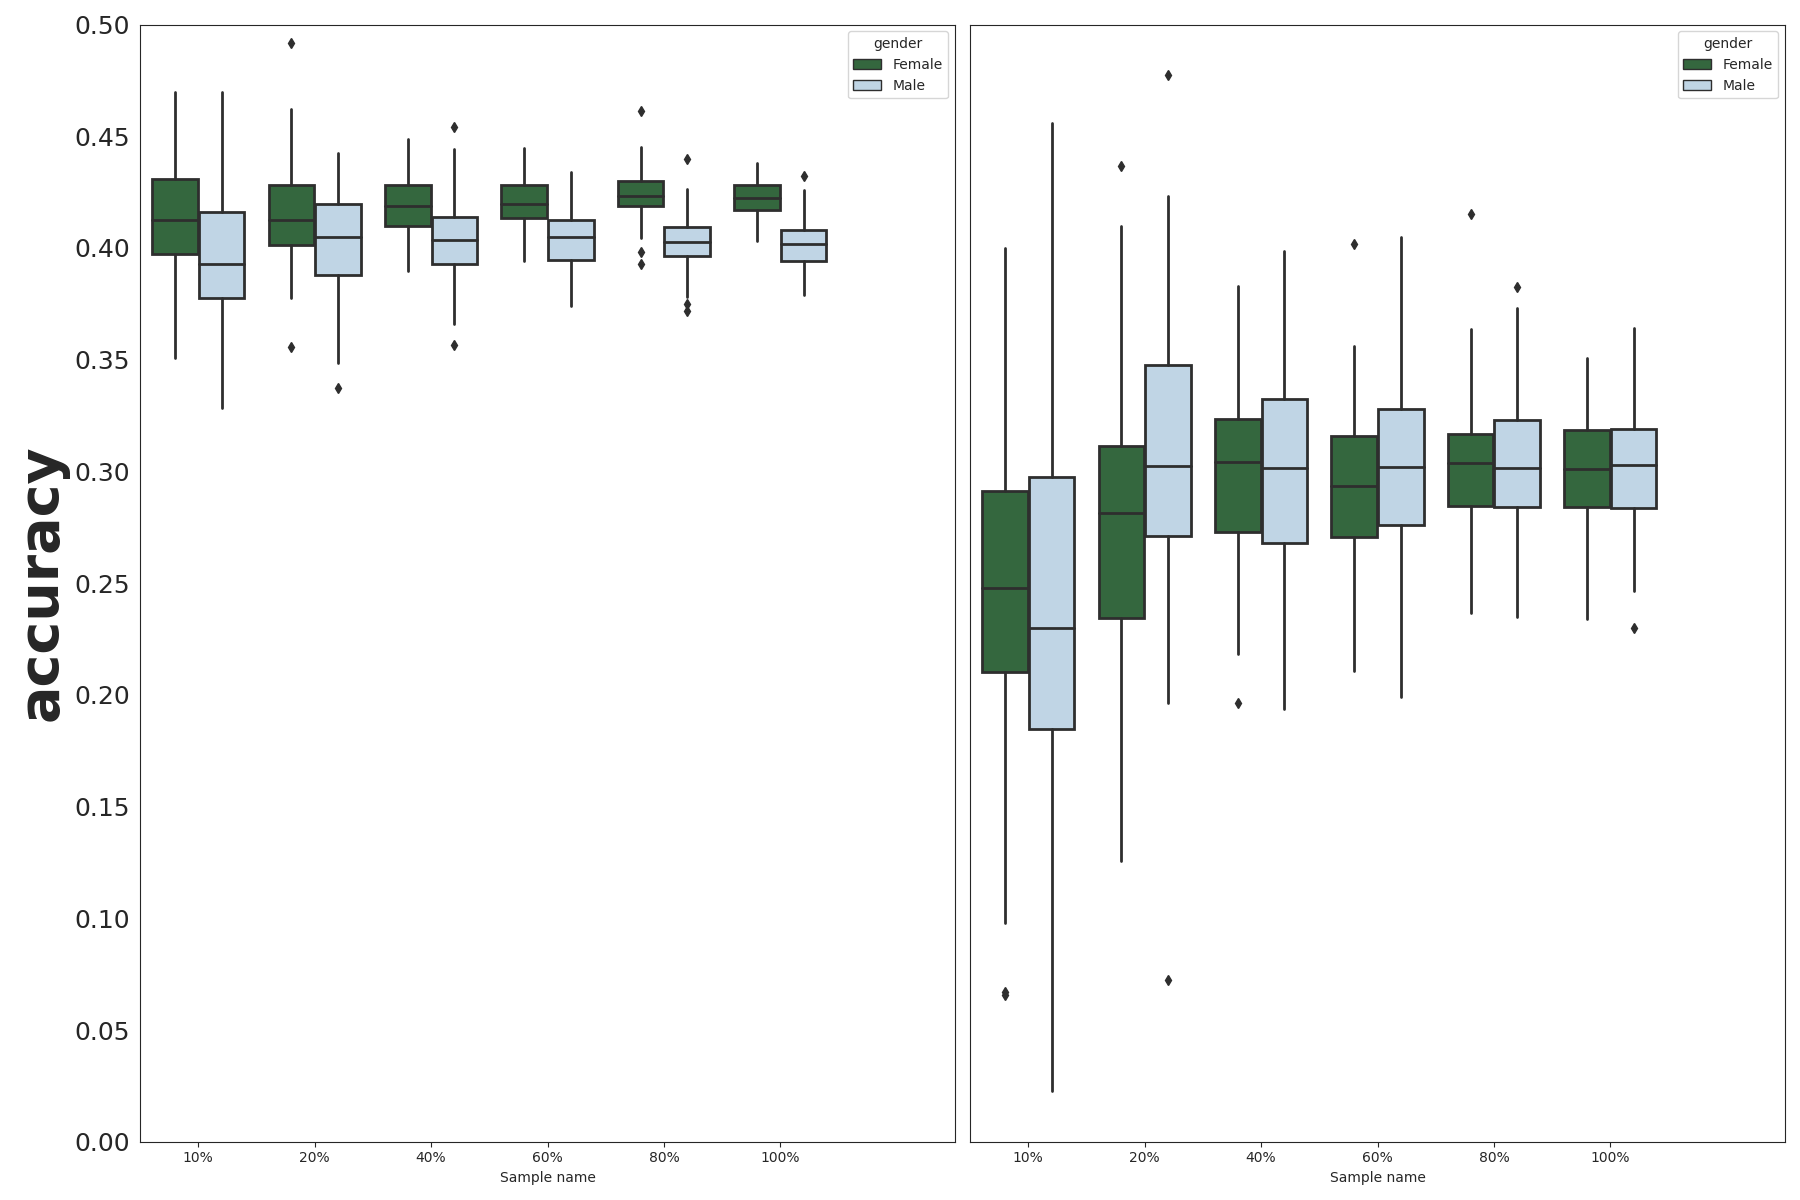
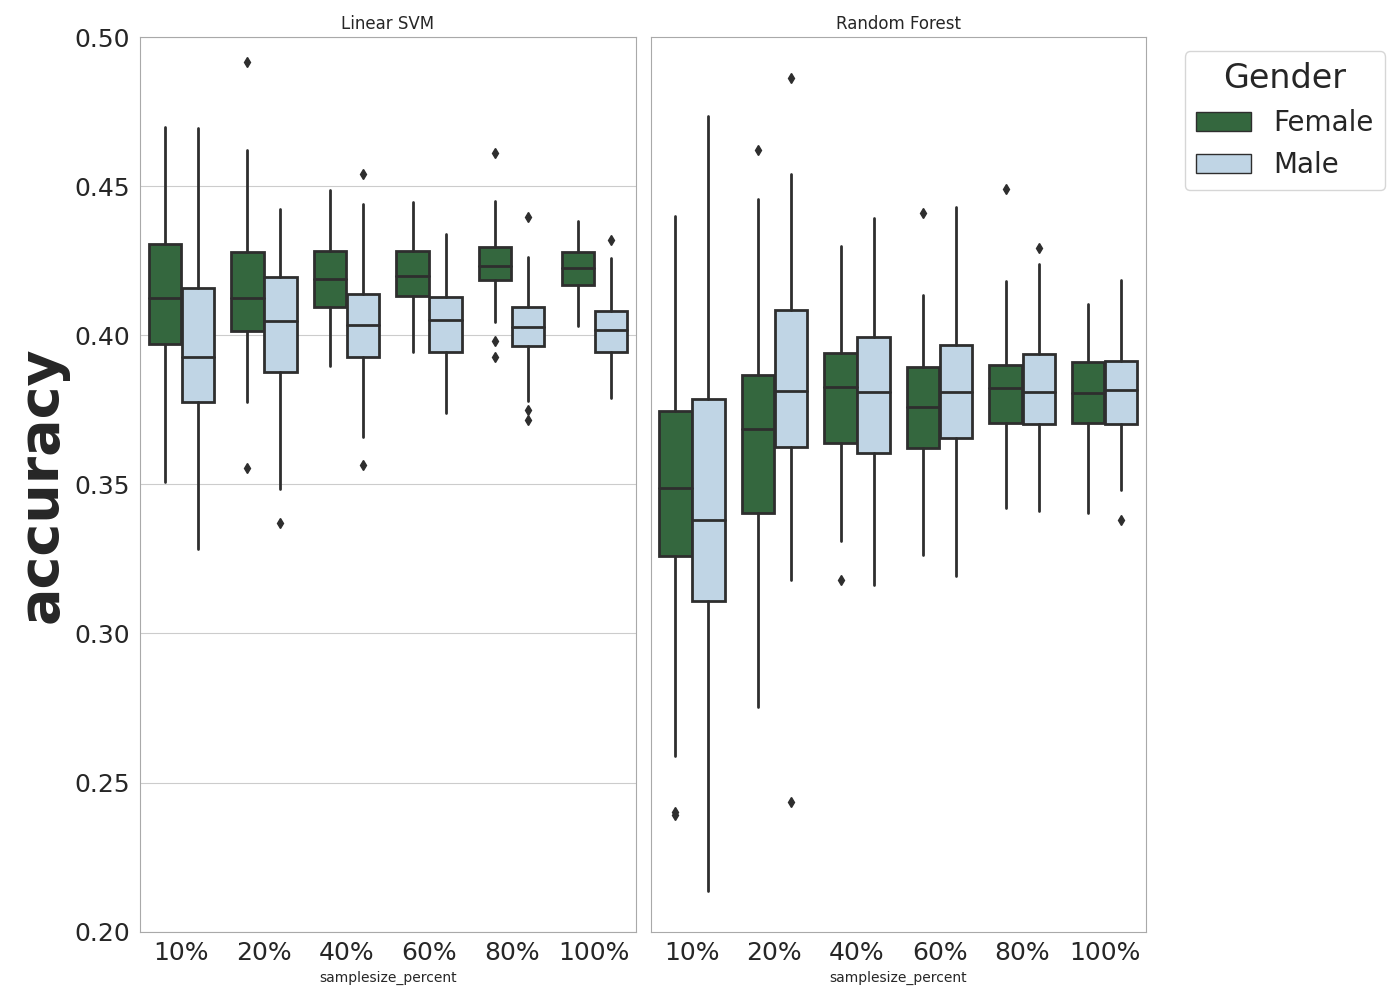
Comparing linear SVM and Random Forest with different sample size in non-MRI data

diff --git a/exec/4_samplesize_increasing_on_data/plot_boxplot_comparing_svm_rf_models_multi_samplesize_by_gender.py b/exec/4_samplesize_increasing_on_data/plot_boxplot_comparing_svm_rf_models_multi_samplesize_by_gender.py
@@ -88,14 +88,15 @@ plot_file = os.path.join(plot_folder, f"comparing_SVM_RF_models_multi_samplesize
 # Create a custom color palette dictionary
 # Define custom palettes
 palette_male = sns.color_palette("Blues")
-# palette_female = sns.color_palette(palette='PuRd')
-palette_female = sns.color_palette("cubehelix", 8)
-custom_palette = {'Female': palette_female[2], 'Male': palette_male[1]}
+# palette_female = sns.color_palette(palette='RdPu')
+palette_female = sns.cubehelix_palette()
+custom_palette = {'Female': palette_female[1], 'Male': palette_male[1]}
 
 ###############################################################################
-fig, ax = plt.subplots(1, 2)
 # Set the style once for all plots
+
 sns.set_style("whitegrid")
+fig, ax = plt.subplots(1, 2, figsize=(12,10))
 # Plot the first boxplot on ax[0]
 sns.boxplot(data=df_linear_svm,
             x="samplesize_percent",
@@ -120,46 +121,53 @@ sns.boxplot(data=df_random_forest,
 
 # Set the y-axis label with specified properties
 y_lable = "accuracy"
-ax[0].set_ylabel(y_lable, fontsize=40, fontweight="bold")
+ax[0].set_ylabel(y_lable, fontsize=16, fontweight="bold")
 ax[1].set_ylabel("")
 
+# Set y-ticks based on score type
 if score_type == "r2_score":
-    y_step_value = 0.25
-    ax[0].set_yticks(np.arange(0, 1+y_step_value, y_step_value))
+    y_step_value = 0.025
+    yticks = np.arange(0, 0.25 + y_step_value, y_step_value)
+    ax[0].set_yticks(yticks)
+    ax[1].set_yticks(yticks)
 elif score_type == "r_score":
     y_step_value = 0.05
-    ax[0].set_yticks(np.arange(0, .5+y_step_value, y_step_value))
+    yticks = np.arange(0.2, 0.5 + y_step_value, y_step_value)
+    ax[0].set_yticks(yticks)
+    ax[1].set_yticks(yticks)
 
 # Customize y-tick labels properties and set tick direction to 'out'
-ax[0].tick_params(axis='y', labelsize=18, direction='out')
-# Hide y-ticks on the second subplot
-ax[1].set_yticks([])
+ax[0].tick_params(axis='y', labelsize=16, direction='out')
+ax[1].tick_params(axis='y', labelsize=16, direction='out')
+
+# Format y-tick labels to one decimal place if they are round
+ax[0].set_yticklabels([f'{tick:.1f}' if tick % 1 == 0 else f'{tick:.3f}' for tick in yticks])
+ax[1].set_yticklabels([f'{tick:.1f}' if tick % 1 == 0 else f'{tick:.3f}' for tick in yticks])
+
+# Hide y-ticks on the second subplot (using ax[1].set_yticklabels([]) to keep the style)
+ax[1].set_yticklabels([])
   
 # set style for the axes
 new_xticks = ["10%", "20%", "40%", "60%", "80%", "100%"]
 for axes in [ax[0], ax[1]]:
-    axes.set_xticks(new_xticks, fontsize=40)
+    axes.set_xticks(range(len(new_xticks)))  # Set tick positions
+    axes.set_xticklabels(new_xticks, fontsize=16)  # Set tick labels
 
-# # Plot linear svm title
-for ax in [ax[0], ax[1]]:
-    if ax == ax[0]:
-        ax.set_title('Linear SVM')
-    else:
-        ax.set_title('Random Forest')
+# Plot linear svm title
+ax[0].set_title('Linear SVM', fontsize=16)
+ax[1].set_title('Random Forest',fontsize=16)
 
-# # Set the color of the plot's spines to black for the first subplot
-# for spine in ax[0].spines.values():
-#     spine.set_color('darkgrey')
-    
-# # Set the color of the plot's spines to black for the second subplot
-# for spine in ax[1].spines.values():
-#     spine.set_color('darkgrey')
+# Set the color of the plot's spines to black for both subplots
+for ax_subplot in ax:
+    for spine in ax_subplot.spines.values():
+        spine.set_color('darkgrey')
 
 # Place legend outside the plot
-# Remove legend from ax[0] and ax[1]
-ax[0].legend().remove()
-ax[1].legend().remove()
-legend = plt.legend(title="Gender", title_fontsize='24', fontsize='20', bbox_to_anchor=(1.05, 1), loc='upper left')
+legend = fig.legend(title="Gender", title_fontsize='12', fontsize='10', bbox_to_anchor=(1.05, 1), loc='upper left')
+
+# Remove legend from the axes
+for ax_subplot in ax:
+    ax_subplot.legend().remove()
 
 plt.tight_layout()  # Adjust layout to prevent cropping
 

diff --git a/hgsprediction/load_results/load_multi_samples_trained_models_results.py b/hgsprediction/load_results/load_multi_samples_trained_models_results.py
@@ -51,16 +51,9 @@ def load_scores_trained(
     file_path = os.path.join(
         folder_path,
         f"scores_trained.pkl")
-    # print("===== Done! =====")
-    # embed(globals(), locals())
+
     # Load the scores to pickle format
     df = pd.read_pickle(file_path)
-    
-    # # Specify the path where you want to save the CSV file
-    # csv_file_path = 'scores_trained.csv'
-
-    # # Save the DataFrame to a CSV file
-    # df.to_csv(csv_file_path, sep=',', index=True)
     
     return df
 ############################################################################### 
